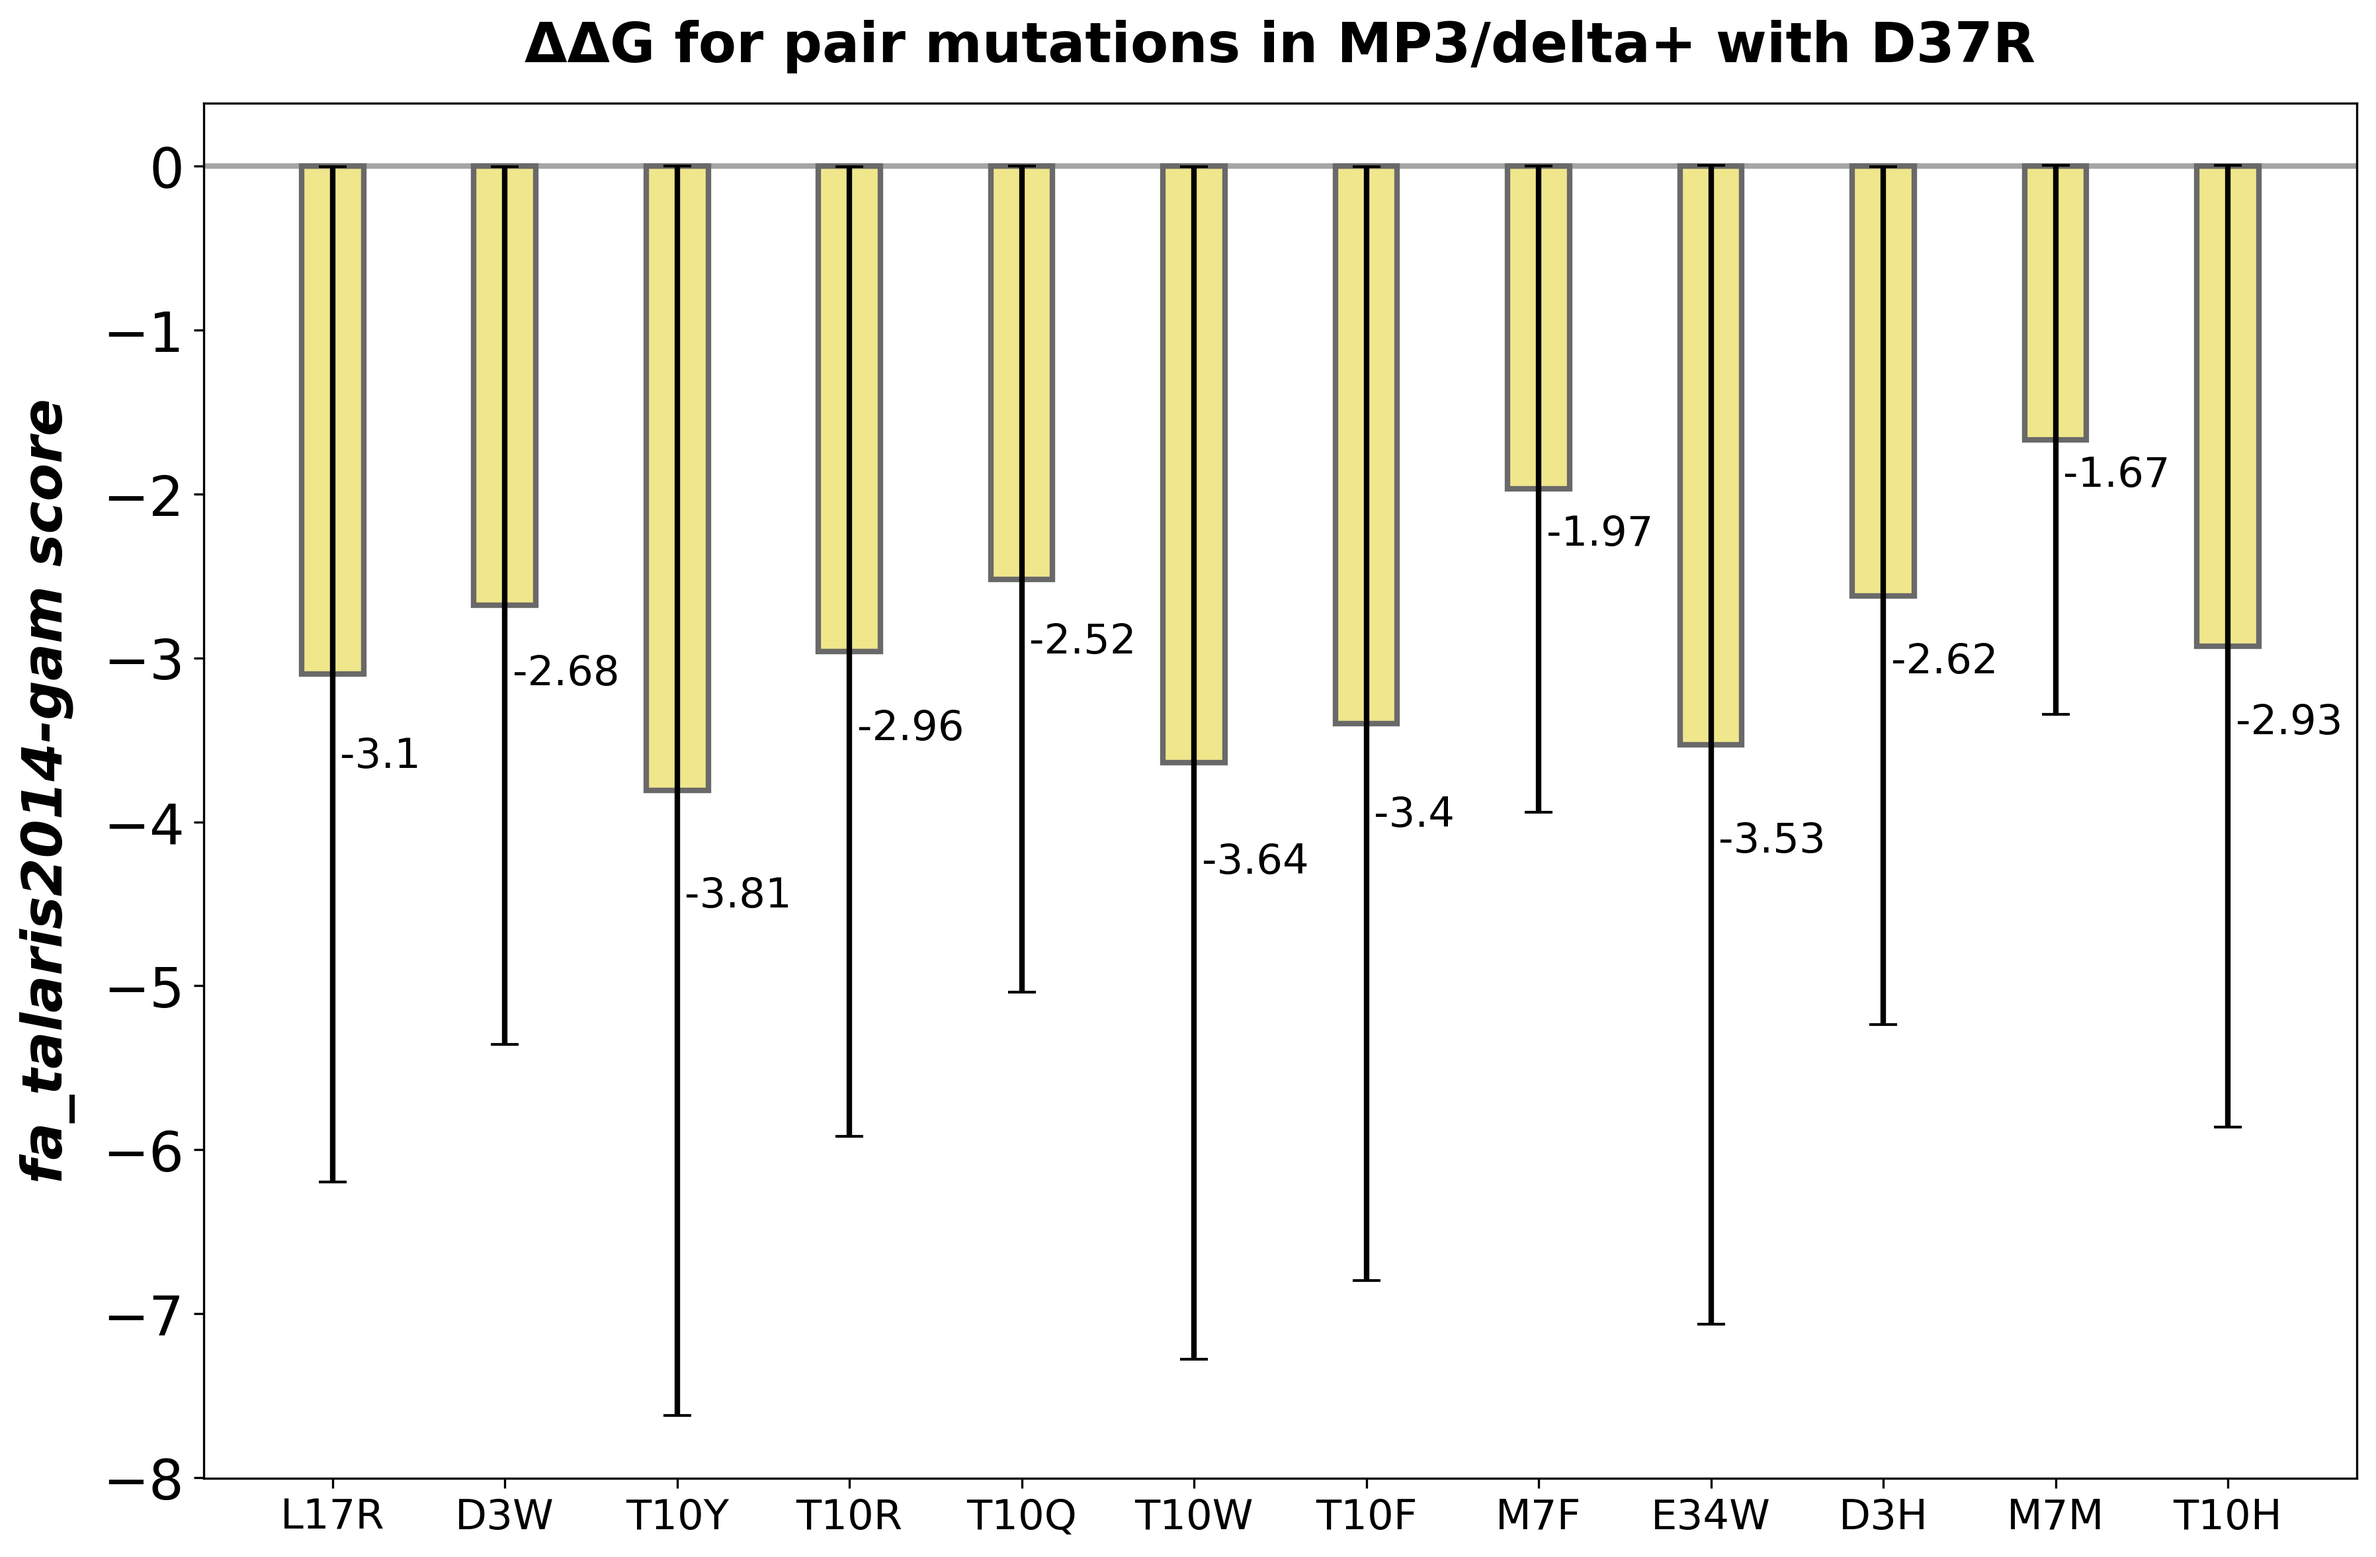
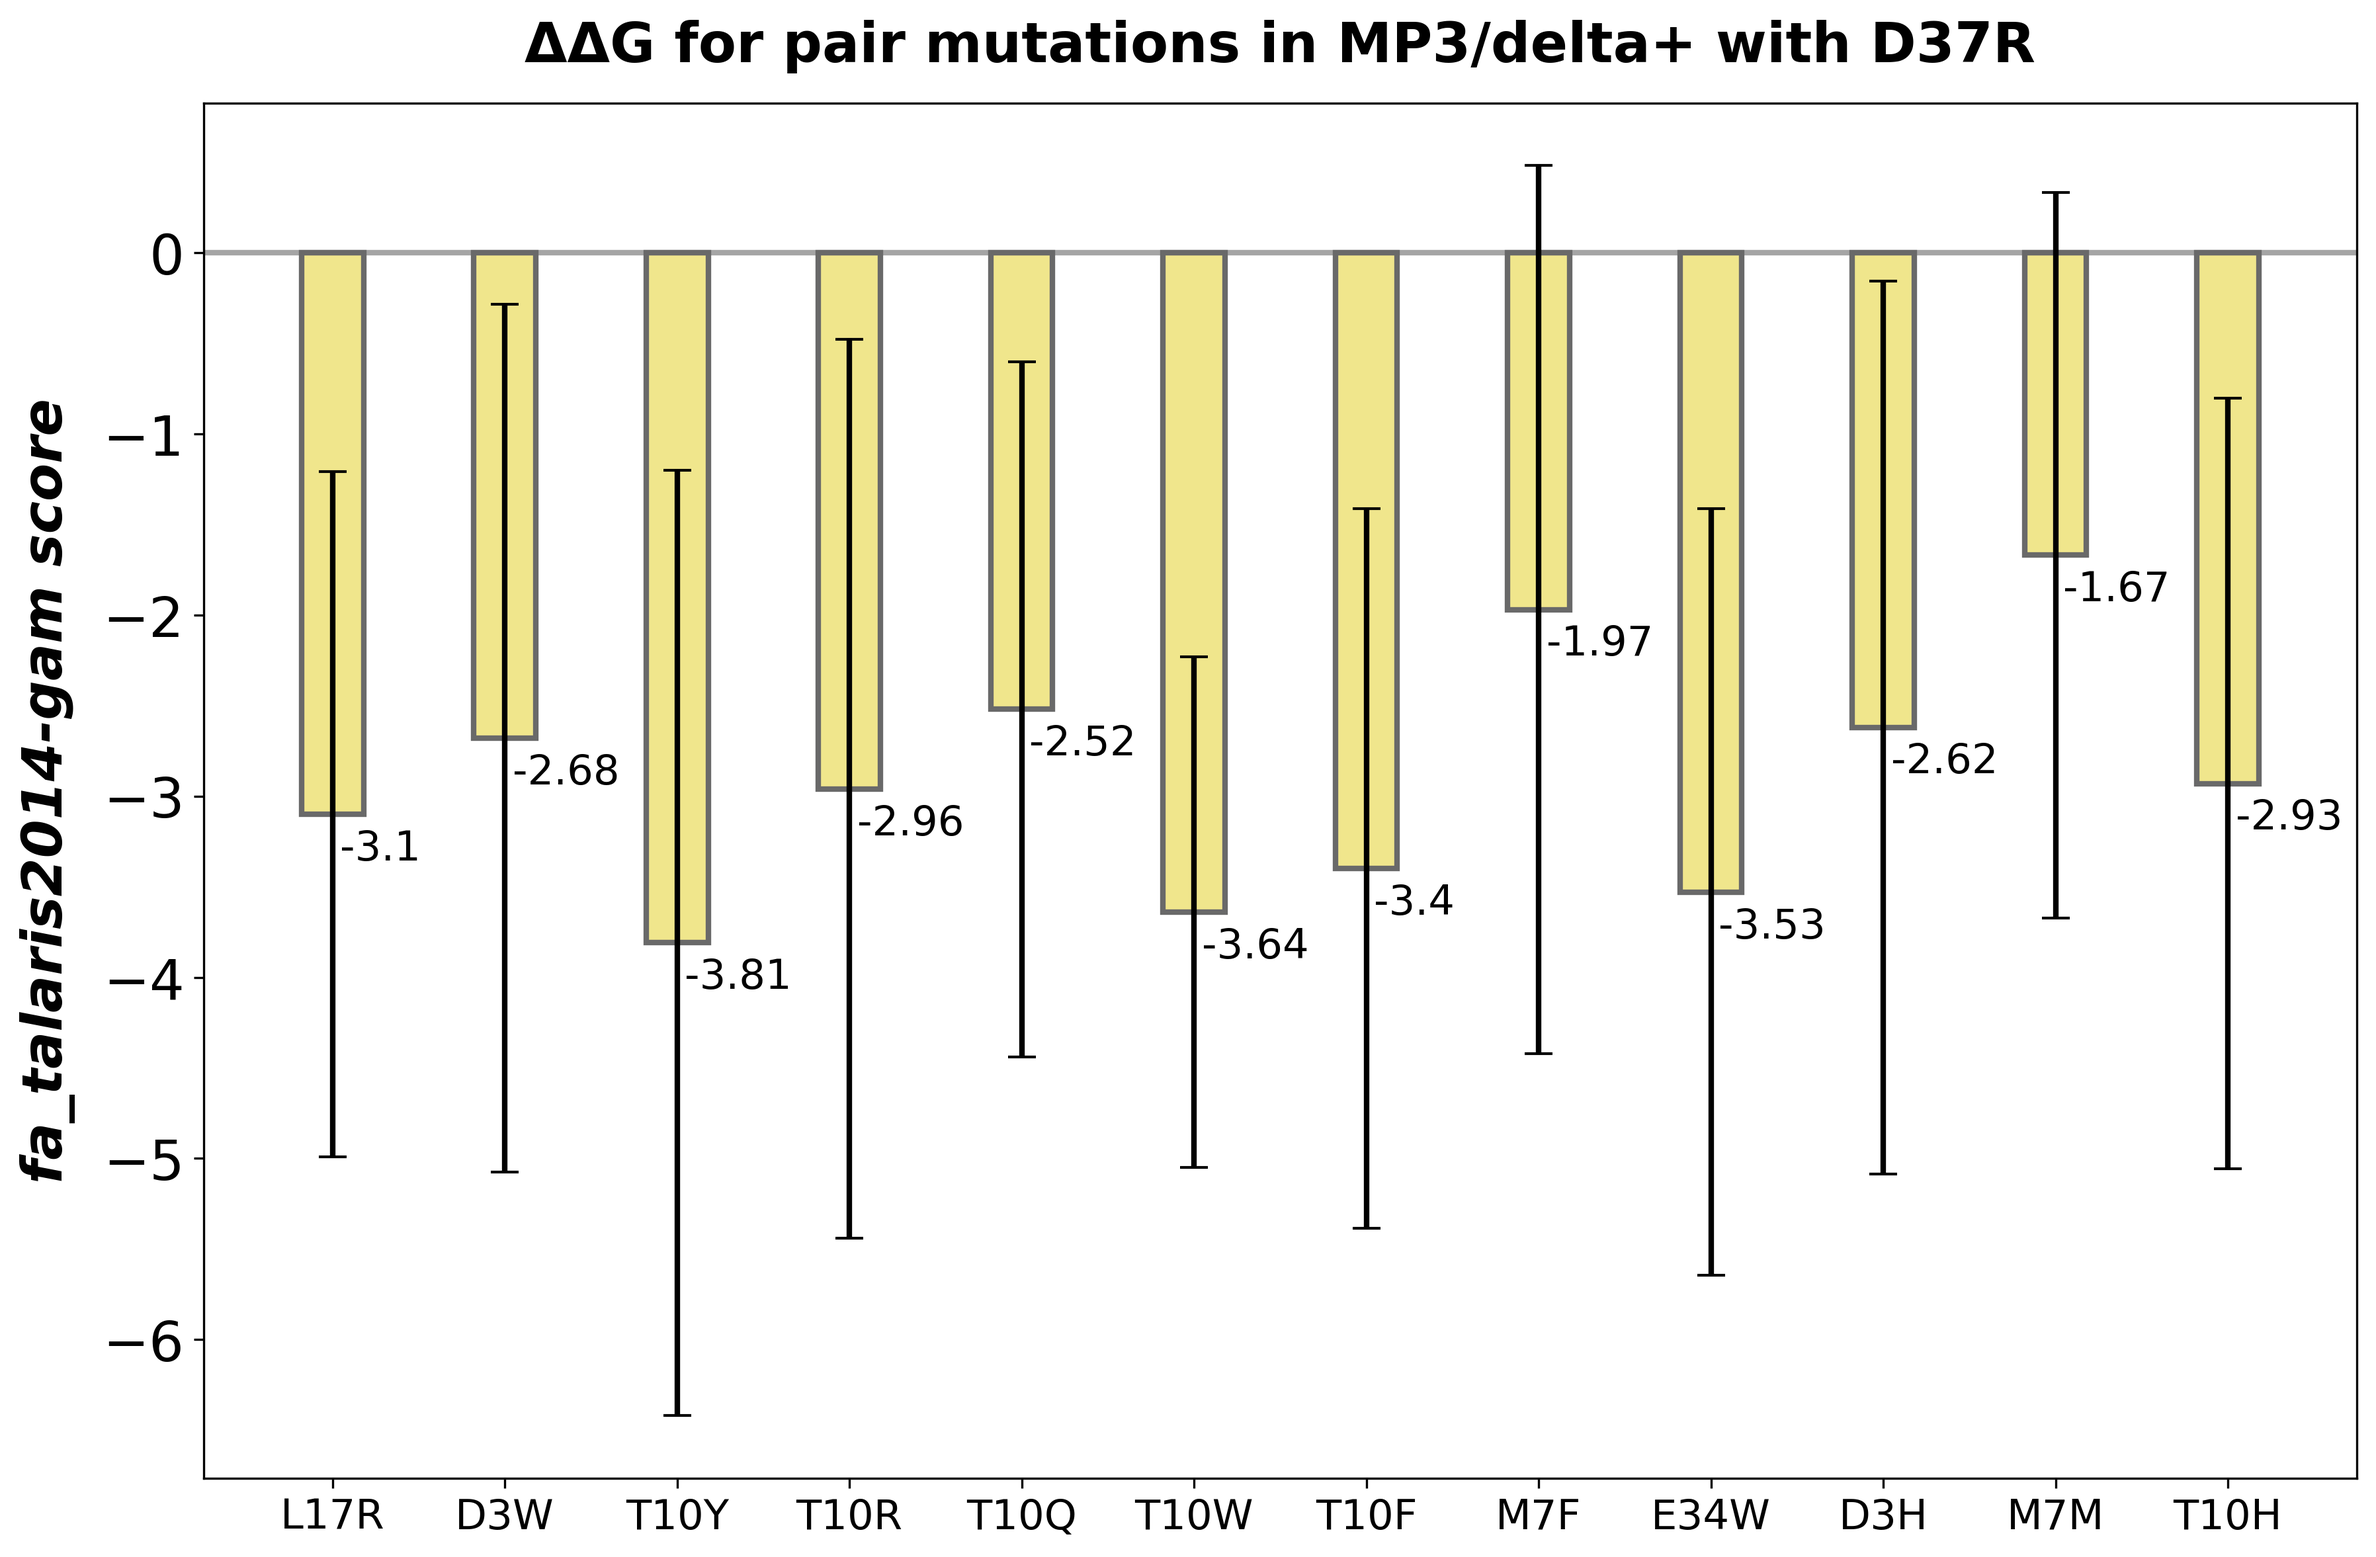
fixed pair mut plots

diff --git a/MP3/1_FlexddG/scripts/plot_pair_mutation_results.py b/MP3/1_FlexddG/scripts/plot_pair_mutation_results.py
@@ -24,7 +24,7 @@ def plot_ddg(df, path_to_pdb, fixed_mutation, mutant, backrub_steps, nstruct, sc
 
     # figures to plot
     mean_metrics = ddg_data_filt.loc[:, 'total_score'].astype(float).to_numpy().round(2)
-    std_metrics = ddg_data_filt.loc[:, 'total_score'].astype(float).to_numpy()
+    std_metrics = ddg_data_filt.loc[:, 'total_score.1'].astype(float).to_numpy()
 
 
     # a function to set axis parameters
@@ -43,11 +43,11 @@ def plot_ddg(df, path_to_pdb, fixed_mutation, mutant, backrub_steps, nstruct, sc
         for rect in rects:
             height = rect.get_height()
             if height > 0:
-                ax.text(rect.get_x() + rect.get_width()/1.6, height*1.2,
+                ax.text(rect.get_x() + rect.get_width()/1.6, height+0.2,
                         height,
                         ha='left', va='bottom', fontsize=15)
             else:
-                ax.text(rect.get_x() + rect.get_width()/1.6, height*1.2,
+                ax.text(rect.get_x() + rect.get_width()/1.6, height-0.3,
                         height,
                         ha='left', va='bottom', fontsize=15)
 
